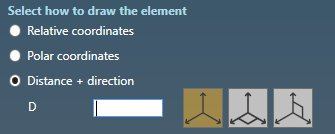
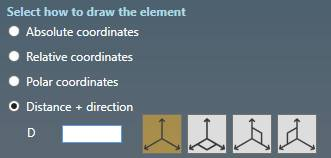
New features

diff --git a/Structure/Elements/Restraint.md b/Structure/Elements/Restraint.md
@@ -54,6 +54,10 @@ Set the coordinate system to **Local to adjacent element** and click the **Creat
 
 ![Image](../../Images/Restraint17.jpg)
 
+>If one or more **spring constants** are unchecked, the symbol of the anchor is changed from a box to a disk :
+
+![Image](../../Images/Restraint43.jpg)
+
 You can **Undo** this command.
 
 You can later modify or remove this anchor by selecting it and clicking on **Modify/Remove** buttons.
@@ -207,7 +211,75 @@ The **Cannot rotate** checkbox means that the anchor plate is assumed to be free
 
 ## 2.7 Stiffeners
 
-Documentation will come soon...
+Define stiffeners to reinforce the plate :
+
+![Image](../../Images/Stiffener1.jpg)
+
+Types :
+
+* None
+* Web
+* Flange
+* WebFlange
+* Special (only for channel and I)
+* Complete (only for channel and I)
+
+You can define the thickness, heights and the lengths of the stiffeners in both sides.
+
+| Property | Unit Metric | Unit USA |
+| -------- | ---- | ---- |
+| Length, height and thickness | mm | in |
+
+The axis are depending on the defined coordinate system :
+
+- Global (default)
+- Local to adjacent element coordinate system
+- Local to the node coordinate system (if exists on node)
+
+{: .warning }
+>The definition of stiffeners is only useful for **finite element analysis** !
+
+Click [here](https://documentation.metapiping.com/Analysis/FEA/AnchorPlate.html) for more information about *Finite Element Analysis* of anchor plates.
+
+### 2.7.1 Web
+
+The stiffeners are aligned with the web of the profile :
+
+![Image](../../Images/Stiffener2.jpg)
+
+*X,Y axis based on local to adjacent element coordinate system in the picture*
+
+### 2.7.2 Flange
+
+The stiffeners are aligned with the flanges of the profile :
+
+![Image](../../Images/Stiffener3.jpg)
+
+*X,Y axis based on local to adjacent element coordinate system in the picture*
+
+### 2.7.3 Web + Flange
+
+The stiffeners are aligned with the web and the flanges of the profile :
+
+![Image](../../Images/Stiffener4.jpg)
+
+*X,Y axis based on local to adjacent element coordinate system in the picture*
+
+### 2.7.4 Special (only for channel and I profile)
+
+The stiffeners close the profile with a plate :
+
+![Image](../../Images/Stiffener5.jpg)
+
+*X,Y axis based on local to adjacent element coordinate system in the picture*
+
+### 2.7.5 Complete (only for channel and I profile)
+
+A combination of *Special* and *Flange* stiffeners :
+
+![Image](../../Images/Stiffener6.jpg)
+
+*X,Y axis based on local to adjacent element coordinate system in the picture*
 
 ## 2.8 Anchor plate duplication
 

diff --git a/Design/Elements/Orientation.md b/Design/Elements/Orientation.md
@@ -14,7 +14,27 @@ The goal is to help user to set the second extremity node, based on the first se
 
 ---
 
-## 1. Relative coordinates
+## 1. Absolute coordinates
+
+This mode is useful when you want to draw an element with the second node defined in **absolute global coordinates**  :
+
+![Image](../../Images/Orientation11.jpg)
+
+| Property | Unit Metric | Unit USA |
+| -------- | ---- | ---- |
+| X | m | ft |
+| Y | m | ft |
+| Z | m | ft |
+
+    To know the UNIT of the value, just let the mouse over the cell. 
+
+Click the **Create element** button to create the element.
+
+You can **Undo** this command.
+
+---
+
+## 2. Relative coordinates
 
 This mode is useful when you want to draw an element with the second node **relative** to the first one in the **global axis** directions :
 
@@ -38,7 +58,7 @@ You can **Undo** this command.
 
 ---
 
-## 2. Polar coordinates
+## 3. Polar coordinates
 
 This mode is useful when you want to draw an element with the second point relative to the first one by a **distance** and **2 angles** :
 
@@ -60,7 +80,7 @@ You can **Undo** this command.
 
 ---
 
-## 3. Distance + direction
+## 4. Distance + direction
 
 ![Image](../../Images/Orientation2.jpg)
 
@@ -89,7 +109,7 @@ Click on **Enter** to execute the creation.
 
 You can **Undo** this command.
 
-### 3.1 Horizontal plane
+### 4.1 Horizontal plane
 
 Click on the second button to display a **horizontal graduated wheel** :
 
@@ -107,7 +127,7 @@ And validate :
 
 The second node will be at "Distance" from the first node in the direction of the selected angle.
 
-### 3.1 Vertical plane
+### 4.2 Vertical plane
 
 Click on the third button to display a **vertical graduated wheel** :
 
@@ -127,7 +147,9 @@ The second node will be at "Distance" from the first node in the direction of th
 
 You can **Undo** this command.
 
-### 3.2 Special cases
+The last button is the **vertical plane** perpendicular to the element.
+
+### 4.3 Special cases
 
 * Tangent direction (in MAGENTA) :
 

diff --git a/Design/index.md b/Design/index.md
@@ -79,7 +79,7 @@ Click [here](https://documentation.metapiping.com/Design/Restraints.html) to hav
 
 ### 1.6 View options
 
-![Image](../Images/Design9.jpg) show/hide the node name
+![Image](../Images/Design9.jpg) show/hide the node name and valve/support label
 
 ![Image](../Images/Design10.jpg) show/hide the node point
 
